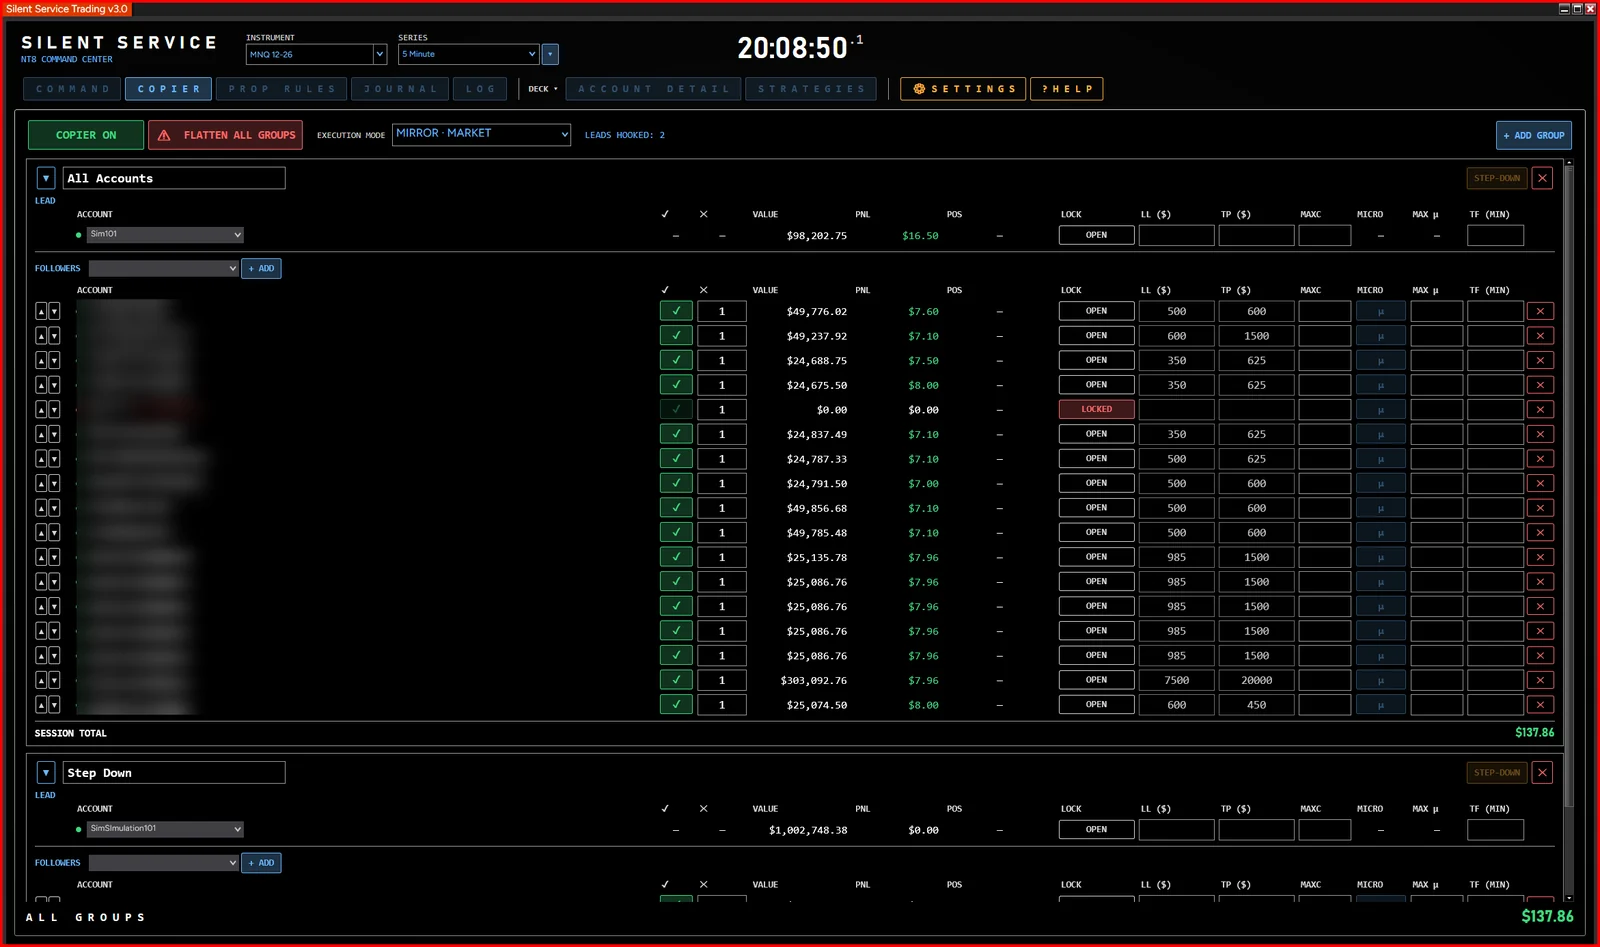
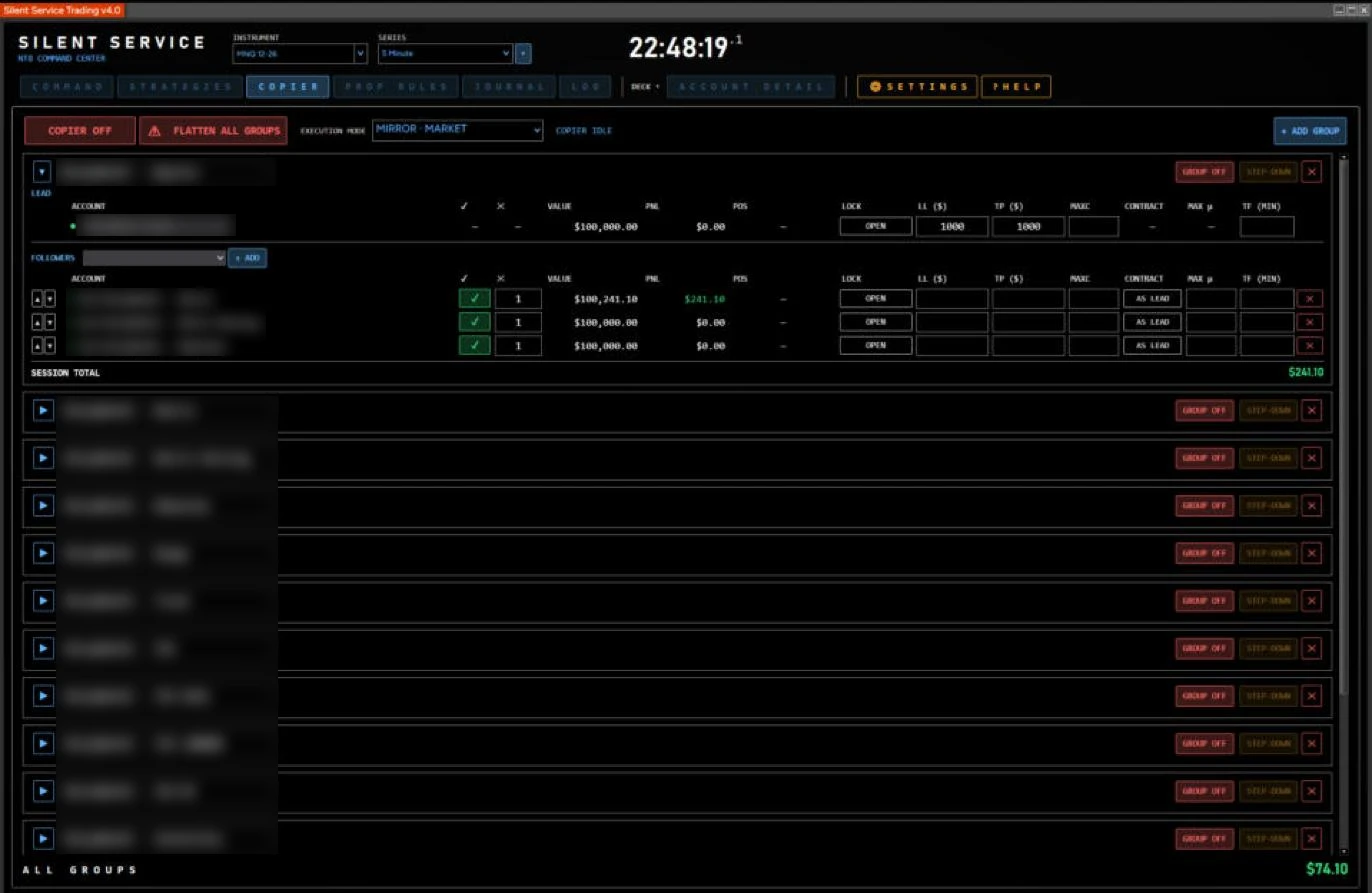
New COPIER screenshot (group and account names blurred)
Claude-Session: https://claude.ai/code/session_01CW6AG73K3NvifGMNTorxUc

Changed region(s): [[0.0, 0.0, 1.0, 1.0], [0.5816, 0.9071, 0.6122, 0.9373]]

diff --git a/index.html b/index.html
@@ -135,7 +135,7 @@
         </ul>
       </div>
 <figure class="shot shot-real">
-  <img src="/assets/img/cc-trade.webp" alt="Copier tab: one lead account copied to many follower accounts, each with its own size, loss limit and profit target (account names blurred)" width="1600" height="947" loading="lazy" decoding="async">
+  <img src="/assets/img/cc-trade.webp" alt="Copier tab: a lead account copied to several follower accounts, each with its own size, lock and limits (group and account names blurred)" width="1372" height="893" loading="lazy" decoding="async">
 </figure>
     </div>
 

diff --git a/tools/build_site.py b/tools/build_site.py
@@ -256,7 +256,7 @@ home = f"""<section class="hero">
           <li>FLATTEN ALL ACCOUNTS when you need everything closed now</li>
         </ul>
       </div>
-{shot("Trade copier", "cc-trade.png", "Copier tab: one lead account copied to many follower accounts, each with its own size, loss limit and profit target (account names blurred)")}
+{shot("Trade copier", "cc-trade.png", "Copier tab: a lead account copied to several follower accounts, each with its own size, lock and limits (group and account names blurred)")}
     </div>
 
     <div class="row flip">
